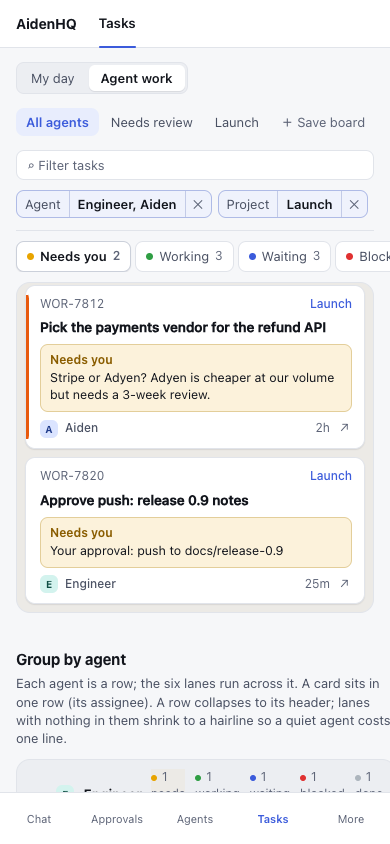
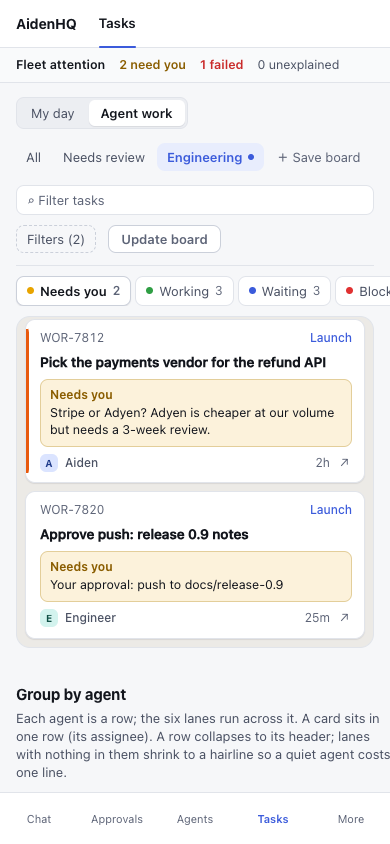
docs(board): apply final Codex review to the agent work board design and mockup
Claude-Session: https://claude.ai/code/session_01VsZSHe2j3sQenar1Q9ZKWw

diff --git a/docs/design/agent-work-board.html b/docs/design/agent-work-board.html
@@ -25,6 +25,8 @@ button { font: inherit; color: inherit; }
 .topnav .k { color: var(--faint); font-size: var(--text-xs); border: 1px solid var(--border); border-radius: var(--radius-sm); padding: 2px 7px; background: var(--surface-2); }
 .topnav .badge { background: var(--warn); color: var(--on-warn); border-radius: var(--radius-sm); font-size: var(--text-2xs); font-weight: 700; padding: 1px 6px; margin-left: 5px; }
 
+.fleet { display: flex; gap: 14px; align-items: center; padding: 8px var(--gutter); font-size: var(--text-sm); color: var(--muted); background: var(--surface-2); border-bottom: 1px solid var(--border); }
+.fleet b { color: var(--text); font-weight: 600; } .fleet .a { color: var(--warn-text); font-weight: 600; } .fleet .r { color: var(--bad-text); font-weight: 600; }
 /* page tools */
 .tools { padding: 14px var(--gutter) 0; display: grid; gap: 10px; }
 .row1 { display: flex; align-items: center; gap: 14px; min-width: 0; }
@@ -47,6 +49,7 @@ button { font: inherit; color: inherit; }
 .chip button { border: 0; border-left: 1px solid color-mix(in srgb, var(--accent) 18%, var(--border)); background: none; width: 26px; height: 100%; cursor: pointer; color: var(--faint); }
 .chip button:hover { background: var(--hover); color: var(--text); }
 .chip.gone b { color: var(--faint); text-decoration: line-through; }
+.fbtn.m { display: none; }
 .clear { border: 0; background: none; color: var(--faint); font-size: var(--text-base); padding: 0 8px; cursor: pointer; height: 28px; }
 .clear:hover { color: var(--text); }
 .grp { margin-left: auto; display: flex; gap: 8px; align-items: center; color: var(--faint); font-size: var(--text-base); }
@@ -152,9 +155,11 @@ button { font: inherit; color: inherit; }
   .search { order: 3; flex: 1 1 100%; margin: 0; }
   .search kbd { display: none; }
   .views { flex: 1 1 100%; order: 2; }
-  .grp { display: none; }
-  .row2 { flex-wrap: nowrap; overflow-x: auto; scrollbar-width: none; }
-  .chip, .fbtn, .clear { flex: none; }
+  .grp { display: contents; font-size: 0; }
+  .grp > :not(.save) { display: none; }
+  .row2 .chip, .row2 .clear, .row2 .fbtn { display: none; }
+  .row2 .fbtn.m { display: inline-flex; }
+  .row2 .save { display: inline-block; }
   .lanes .lane-h { display: none; }
   .lanes { display: block; padding-top: 10px; }
   .lanes .lane { display: none; max-height: none; }
@@ -178,22 +183,22 @@ button { font: inherit; color: inherit; }
   <span class="sp"></span><span class="k">⌘K</span>
 </header>
 
+<div class="fleet"><b>Fleet attention</b><span class="a">2 need you</span><span class="r">1 failed</span><span>0 unexplained</span></div>
 <section class="tools">
   <div class="row1">
     <div class="ui-seg layout-seg" role="group" aria-label="Layout"><button aria-pressed="false">My day</button><button aria-pressed="true">Agent work</button></div>
     <div class="views" role="tablist" aria-label="Saved boards">
-      <button class="view" role="tab" aria-selected="true">All agents</button>
+      <button class="view" role="tab" aria-selected="false">All</button>
       <button class="view" role="tab" aria-selected="false">Needs review</button>
-      <button class="view" role="tab" aria-selected="false">Launch</button>
+      <button class="view" role="tab" aria-selected="true">Engineering <i class="dirty" title="Changed"></i></button>
       <button class="view add" aria-label="Save as a board">＋ Save board</button>
     </div>
     <label class="search">⌕ Filter tasks <kbd>/</kbd></label>
   </div>
   <div class="row2">
-    <span class="chip"><span>Agent</span><b>Engineer, Aiden</b><button aria-label="Remove Agent filter">✕</button></span>
-    <span class="chip"><span>Project</span><b>Launch</b><button aria-label="Remove Project filter">✕</button></span>
-    <span class="chip gone" title="This label no longer exists; it matches nothing"><span>Label</span><b>spike</b><button aria-label="Remove Label filter">✕</button></span>
-    <button class="fbtn">＋ Filter</button>
+    <span class="chip"><span>Agent</span><b>Engineer, Aiden, DevOps Engineer</b><button aria-label="Remove Agent filter">✕</button></span>
+    <span class="chip"><span>Updated</span><b>Last 7 days</b><button aria-label="Remove Updated filter">✕</button></span>
+    <button class="fbtn m-hide">＋ Filter</button><button class="fbtn m">Filters (2)</button>
     <button class="clear">Clear all</button>
     <span class="grp">Group by <div class="ui-seg" role="group" aria-label="Group by"><button aria-pressed="true">None</button><button aria-pressed="false">Agent</button></div><button class="save">Update board</button></span>
   </div>
@@ -238,8 +243,8 @@ button { font: inherit; color: inherit; }
       <div class="panel"><small>Loading: skeleton shaped like the lanes (lane headers real, cards pending)</small>
         <div class="lane l-work" style="max-height:none"><div class="lane-h"><h2>Working</h2><span class="n sk" style="width:16px;height:12px"></span></div><div class="cards"><div class="sk" style="height:92px"></div><div class="sk" style="height:76px"></div></div></div></div>
       <div class="panel"><small>Empty install, or filters match nothing</small>
-        <div class="empty"><b>No tasks match these filters</b>Clear a filter to see more.<button class="save">Clear all</button></div>
-        <div class="empty"><b>Nothing is running yet</b>Ask Aiden to take a task and it shows up here, lane by lane.</div></div>
+        <div class="empty"><b>No tasks match</b>Remove a filter to see more.<button class="save">Clear filters</button></div>
+        <div class="empty"><b>No tasks yet</b>Ask Aiden to take one and it shows up here, lane by lane.</div></div>
       <div class="panel"><small>A lane with 50+ cards: scrolls on its own, shows 25, then "Show 38 more"</small>
         <div class="lane l-idle" style="max-height:none"><div class="lane-h"><h2>Idle</h2><span class="n">63</span></div><div class="cards" id="busy"></div><button class="more">Show 38 more</button></div></div>
     </div>
@@ -295,7 +300,7 @@ const D = {
 const LANES = [["needs", "Needs you", "l-needs"], ["work", "Working", "l-work"], ["wait", "Waiting", "l-wait"], ["block", "Blocked", "l-block"], ["idle", "Idle", "l-idle narrow"], ["done", "Done, last 48h", "l-done narrow"]];
 const q = new URLSearchParams(location.search);
 const cur = LANES.map((l) => l[0]).includes(q.get("lane")) ? q.get("lane") : "needs";
-document.getElementById("lanes").innerHTML = LANES.map(([k, name, cls]) => `<section class="lane ${cls} ${k === cur ? "cur" : ""}" aria-label="${name}"><header class="lane-h"><h2>${name}</h2><span class="n">${D[k].length}</span></header><div class="cards">${D[k].map(card).join("")}</div></section>`).join("");
+document.getElementById("lanes").innerHTML = LANES.map(([k, name, cls]) => `<section class="lane ${cls} ${k === cur ? "cur" : ""}" aria-label="${name}"><header class="lane-h"><h2>${name}</h2><span class="n" title="matching cards">${D[k].length}</span></header><div class="cards">${D[k].map(card).join("")}</div></section>`).join("");
 document.getElementById("ptabs").innerHTML = LANES.map(([k, name, cls]) => `<button role="tab" aria-selected="${k === cur}" class="${cls}"><i style="--c:var(--c)"></i>${name.replace(", last 48h", "")} <em>${D[k].length}</em></button>`).join("");
 document.querySelectorAll("#ptabs button").forEach((b, i) => { const c = getComputedStyle(document.querySelectorAll("#lanes .lane")[i]).getPropertyValue("--c"); b.querySelector("i").style.background = c; });
 // swimlanes

diff --git a/docs/design/agent-work-board.md b/docs/design/agent-work-board.md
@@ -25,27 +25,29 @@ and `wait_since` are shown as the kernel sent them. A card the kernel has no sta
 
 ## Lanes
 
-`lane(state)` is one function in `web/src/lanes.ts`, three steps in this order, so every state lands in exactly one lane
-and a reason the kernel adds later still lands by its `kind` (no table to forget):
+`lane(state)` is one function in `web/src/lanes.ts`, four steps in this order, so every state lands in exactly one lane:
 
 1. Owner attention (`needsOwner`, `web/src/ui/TaskState.tsx`: `attention.who === "owner"`) is **Needs you**. It is checked
    first because a running task can carry an owner question, and it matches the kernel's `counts.needs_you`.
-2. A reason in the stuck set `blocked`, `failed`, `unpolled`, `orphaned`, `unknown`, `history_expired` is **Blocked**
-   (an agent must unstick it; the card says which).
-3. Otherwise by `kind`: `working` is **Working**, `waiting` is **Waiting** (`job_queued`, `job_held`, `card_review`,
-   `delegator_wait`, `agent_wait`, `module_wait`), `idle` is **Idle** (`scheduled`, `backlog`, `owner_task`, `chat_turn`),
-   `done` is **Done** (`closed`, `cancelled`).
+2. **Blocked**: reason `blocked` or `failed`, or an agent-attention `why` of `stalled_wait`, `unpolled`, `orphaned`, `unknown`
+   or `history_expired` (the kernel raises these only after a 15-minute grace, so a fresh quiet task is not Blocked).
+3. **Idle**: `kind` is `idle`, or the reason is `scheduled`, `backlog`, `owner_task` or `chat_turn` (the kernel gives these
+   four `kind: "waiting"`, so they are listed explicitly).
+4. Otherwise by `kind`: `working` is **Working**, `waiting` is **Waiting** (`job_queued`, `job_held`, `card_review`,
+   `delegator_wait`, `agent_wait`, `module_wait`), `done` is **Done** (`closed`, `cancelled`). A reason the kernel adds later
+   lands by its kind.
+
+The State filter, its counts and the lane use this one function, so a card shown in a lane always matches that lane's filter.
 
 Every one of the 22 `Reason`s: `card_owner`, `owner_wait`, `handback` (owner attention) go to Needs you; `blocked`, `failed`,
-`unpolled`, `orphaned`, `unknown`, `history_expired` to Blocked; `job_running` to Working; `job_queued`, `job_held`,
+`unpolled`, `orphaned`, `unknown`, `history_expired` to Blocked once flagged (Idle during the grace); `job_running` to Working; `job_queued`, `job_held`,
 `card_review`, `delegator_wait`, `agent_wait`, `module_wait` to Waiting; `scheduled`, `backlog`, `owner_task`, `chat_turn`
-to Idle; `closed`, `cancelled` to Done. A stalled `module_wait` (attention `stalled_wait`, who agent) stays in Waiting; its card
-shows the warning mark. The web's `Reason` union is a copy of the kernel's (`web/src/types.ts`, "change them together"), so the
+to Idle; `closed`, `cancelled` to Done. A stalled `module_wait` goes to Blocked. The web's `Reason` union is a copy of the kernel's (`web/src/types.ts`, "change them together"), so the
 kind fallback, not a type check, is what keeps new reasons safe.
 Done is the board's existing 48-hour window (`RECENT_MS`, `src/app.ts`) and disappears by itself; a task the owner settled
 stays off, as everywhere. Lane counts are the length of the rendered, filtered lane, labelled as cards (not the kernel's
 fleet counts, which include sub-tasks); the Attention strip above Tasks (`web/src/Attention.tsx`, fed by `/api/needs-you`)
-stays the fleet-wide source for "what needs me".
+stays the fleet-wide source for "what needs me" and is labelled "Fleet attention" (the lane count reads "matching cards").
 
 Known limit: agents' sub-tasks fold into their parent's card (`foldedChildren`, `src/board.ts`) and the kernel never makes a
 parent wait for its children, so a parent can sit in Working or Idle while a child waits on the owner. The card's crew line
@@ -147,9 +149,10 @@ learn projects first):
 
 ## Card additions (both layouts)
 
-- **Needs you line.** For any state with owner attention the card shows a callout under the title: the first line of
-  `state.question` for an `owner_wait`, "Your approval: <card sentence>" for a `card_owner`, "Handed to you" for a
-  `handback`. No new data: the kernel's `question`, `ref` and `refLabel` (`shown()`, `src/task-state.ts`).
+- **Needs you line.** For any state with owner attention the card shows a callout under the title, resolved from each
+  `attention` entry (`why`, `ref`), not from the primary reason (a running job can hold an approval): the first line of
+  `state.question` for `owner_wait`, "Your approval: <card sentence>" for a `card` entry (`shown()` today attaches the sentence only
+  when the card is the primary reason; resolve it from the entry's `ref` the same way), "Handed to you" for `handback`.
 - **Run trace link.** `#/r/<id>` (Route kind `run`) for the task's newest job, from the kernel activity the board already
   reads (`cachedActivity`, `src/runs.ts`: running and recent jobs carry `task`) as `lastRun`. A task with no job in that
   window has no link; older runs stay in the drawer (`runLinks`). No per-card kernel call.
@@ -170,7 +173,8 @@ Tasks   [My day|Agent work]  All agents  Needs review  Launch  + Save board     
  ┌ Needs you 2 ┐ ┌ Working 3 ┐ ┌ Waiting 3 ┐ ┌ Blocked 2 ┐ ┌ Idle 3 ┐ ┌ Done, last 48h 3 ┐
 ```
 
-**Layout switch.** A `Segmented` (`My day | Agent work`) at the left of the page-tools row, not a tab: it changes how the
+**Layout switch.** The layout and the saved filters have separate jobs: the `Segmented` picks how tasks are drawn; the tabs next to it are saved
+filters only (no built-in tab, "Update board" appears only on a saved one; the unsaved default is "All"). A `Segmented` (`My day | Agent work`) at the left of the page-tools row, not a tab: it changes how the
 same tasks are drawn, while the board tabs next to it are saved filters. The choice is remembered per board (stored in the
 board's spec; built-ins keep it in `localStorage`). My day is untouched, including drag.
 
@@ -201,7 +205,9 @@ callout colour is the only saturated area on a card, so a column scans by colour
 Priority, Project, Updated) with a type-to-find field; picking one opens its value list (multi-select with counts, agent
 rows with monograms). A chosen filter is one chip: `name | values | ✕`; ✕ removes it, "Clear all" appears with two or more.
 A value that no longer exists (a deleted label) stays as a struck-through chip and matches nothing. Text search is the
-field at the right (`/` focuses it). Filters apply to both layouts. Group by is a `Segmented` (`None | Agent`), shown only in
+field at the right (`/` focuses it). Filters apply to both layouts. On My day a filter hides the carried-over bulk action (it moves every carried task, not the
+visible ones), and the page's keyboard handlers (`App.tsx`: `r` toggles Recurring) are scoped by layout, so the new keys exist only
+in Agent work. Group by is a `Segmented` (`None | Agent`), shown only in
 Agent work.
 
 **Group by agent.** Each agent is a row on a `--col` surface: collapse chevron, monogram, name, and per-lane counts as
@@ -215,10 +221,10 @@ board.
 `Menu` on the selected tab (also right-click); Delete confirms in a `Dialog` ("Delete 'Launch'? The tasks stay.").
 Over six boards the rest sit behind a "More" `Menu`.
 
-**Empty, loading, errors.** Loading: lane headers draw at once, cards are skeletons (`Skeleton.tsx`), never a spinner. Filters
+**Empty, loading, errors.** On phone the first lane shown is the first populated one, and a "Filters (3)" button replaces the chip row
+(chips open in a sheet, with Clear and Update board). Loading: lane headers draw at once, cards are skeletons (`Skeleton.tsx`), never a spinner. Filters
 match nothing: "No tasks match these filters" with a "Clear all" button. Nothing running (fresh install): "Nothing is
-running yet. Ask Aiden to take a task and it shows up here, lane by lane." A lane with nothing: a dashed box, "Nothing
-here". A failed read keeps the last good board and shows the existing offline `Banner`.
+running yet. Ask Aiden to take a task and it shows up here, lane by lane." A lane with nothing: a dashed box, "No tasks in <lane>". A failed read keeps the last good board and shows the existing offline `Banner`.
 
 **Long and busy.** Titles clamp to two lines and wrap long unbroken strings. A lane scrolls inside itself (max-height from the
 viewport) and renders 25 cards, then "Show 38 more"; header counts always show the true number.
